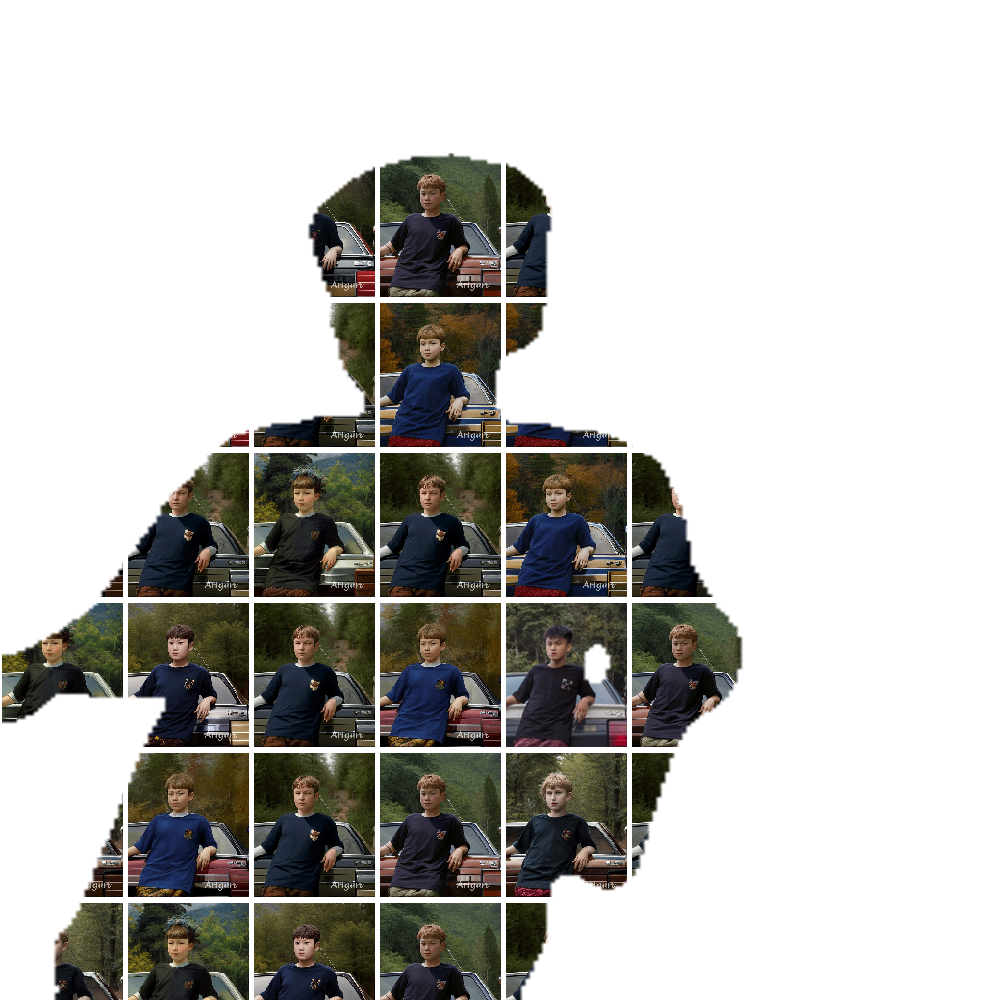
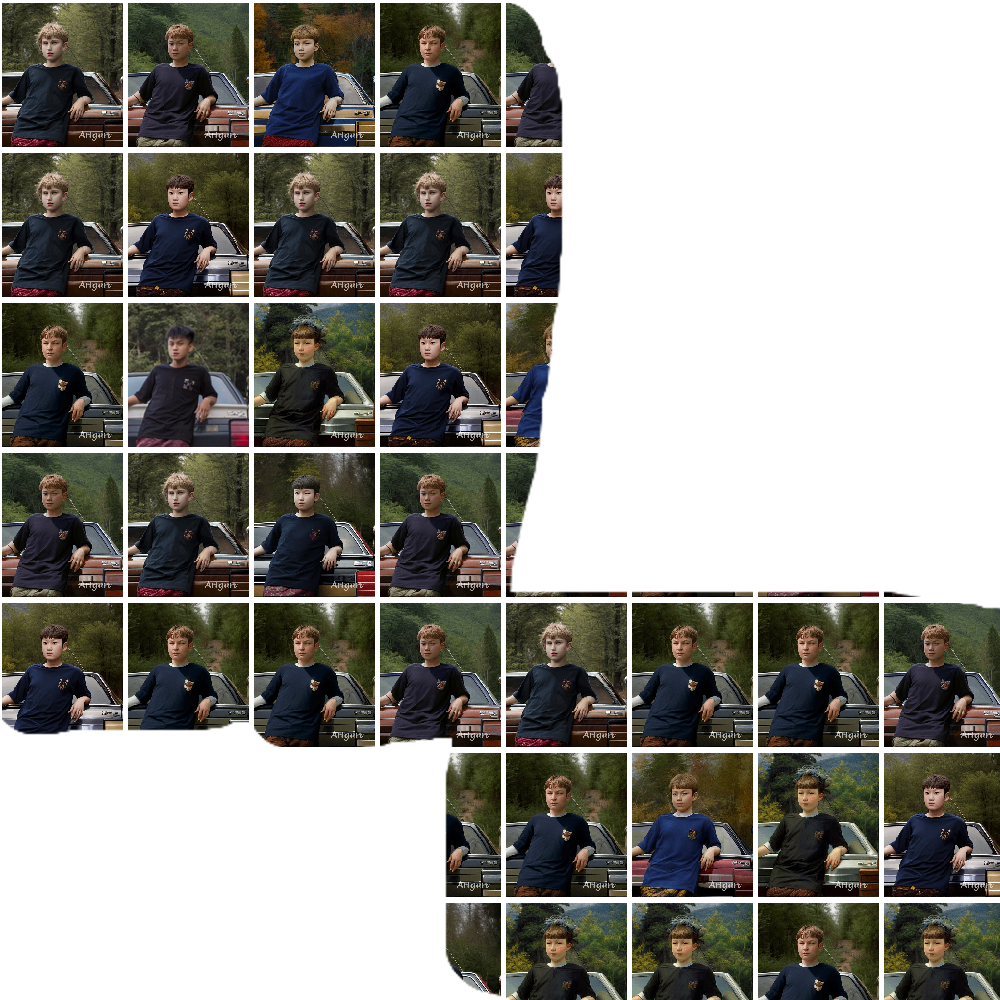
feat: 新增自訂繪圖遮罩功能

diff --git a/shape_collage/templates/index.html b/shape_collage/templates/index.html
@@ -119,6 +119,7 @@
           <option value="star">星形</option>
           <option value="heart">心形</option>
           <option value="silhouette">輪廓</option>
+          <option value="draw">手繪</option>
         </select>
       </div>
 
@@ -130,6 +131,11 @@
       <button type="submit">上傳並生成拼貼圖</button>
     </form>
 
+    <div id="drawArea" style="display:none; margin-top: 20px;">
+      <label>在下方手繪你的形狀：</label>
+      <canvas id="drawCanvas" width="500" height="500" style="border:1px solid #ccc;"></canvas>
+    </div>
+
     <div id="collageArea">
       <div class="preview-grid" id="previewGrid"></div>
       <img id="collageImage" class="collage-img" style="display: none;" />
@@ -137,45 +143,108 @@
   </main>
 
   <script>
-    document.getElementById("uploadForm").addEventListener("submit", function(event) {
-      event.preventDefault();
+  const shapeSelect = document.getElementById("shape");
+  const drawArea = document.getElementById("drawArea");
+  const canvas = document.getElementById("drawCanvas");
+  const ctx = canvas?.getContext("2d");
+  ctx.fillStyle = "white";
+  ctx.fillRect(0, 0, canvas.width, canvas.height);
+  
+  // 🔥 把事件註冊拉出來
+  shapeSelect.addEventListener("change", function () {
+    if (this.value === "draw") {
+      drawArea.style.display = "block";
+    } else {
+      drawArea.style.display = "none";
+    }
+  });
 
-      const formData = new FormData(this);
+  let drawing = false;
+  let lastX = 0;
+  let lastY = 0;
+  let brushSize = 40;
 
-      fetch("/upload", {
-        method: "POST",
-        body: formData
-      })
-      .then(response => response.json())
-      .then(data => {
-        const grid = document.getElementById("previewGrid");
-        const collageImg = document.getElementById("collageImage");
-        grid.innerHTML = "";
+  if (canvas) {
+    canvas.addEventListener("mousedown", (e) => {
+      drawing = true;
+      [lastX, lastY] = [e.offsetX, e.offsetY];
+    });
 
-        // 顯示小圖片
-        data.images.forEach(file => {
-          const img = document.createElement("img");
-          img.src = file.url;
-          img.alt = file.name;
-          img.setAttribute("data-target", file.is_target ? "true" : "false");
+    canvas.addEventListener("mousemove", draw);
+    canvas.addEventListener("mouseup", () => drawing = false);
+    canvas.addEventListener("mouseout", () => drawing = false);
 
-          img.addEventListener("click", () => {
-            if (img.getAttribute("data-target") === "true") {
-              alert("🎯 找到了！");
-            } else {
-              alert("❌ 不是目標，再試一次");
-            }
-          });
+    function draw(e) {
+      if (!drawing) return;
+      ctx.strokeStyle = "black";
+      ctx.lineWidth = brushSize;
+      ctx.lineCap = "round";
+      ctx.beginPath();
+      ctx.moveTo(lastX, lastY);
+      ctx.lineTo(e.offsetX, e.offsetY);
+      ctx.stroke();
+      [lastX, lastY] = [e.offsetX, e.offsetY];
+    }
+  }
 
-          grid.appendChild(img);
+  document.getElementById("uploadForm").addEventListener("submit", function(event) {
+    event.preventDefault();
+    const formData = new FormData(this);
+
+    // 如果選的是 "draw"，把 canvas 畫的圖轉成 blob 丟進 formData
+    if (shapeSelect.value === "draw" && canvas) {
+      const dataUrl = canvas.toDataURL("image/png");
+      const blob = dataURLToBlob(dataUrl);
+      console.log(blob); // 看有沒有東西，type 是不是 image/png
+      formData.append("drawn_shape", blob, "drawn_shape.png");
+    }
+    
+
+    fetch("/upload", {
+      method: "POST",
+      body: formData
+    })
+    .then(response => response.json())
+    .then(data => {
+      const grid = document.getElementById("previewGrid");
+      const collageImg = document.getElementById("collageImage");
+      grid.innerHTML = "";
+
+      data.images.forEach(file => {
+        const img = document.createElement("img");
+        img.src = file.url;
+        img.alt = file.name;
+        img.setAttribute("data-target", file.is_target ? "true" : "false");
+
+        img.addEventListener("click", () => {
+          if (img.getAttribute("data-target") === "true") {
+            alert("🎯 找到了！");
+          } else {
+            alert("❌ 不是目標，再試一次");
+          }
         });
 
-        // 顯示大圖
-        collageImg.src = data.collage_url;
-        collageImg.style.display = "block";
-      })
-      .catch(error => console.error("Error:", error));
-    });
-  </script>
+        grid.appendChild(img);
+      });
+
+      collageImg.src = data.collage_url;
+      collageImg.style.display = "block";
+    })
+    .catch(error => console.error("Error:", error));
+  });
+
+  function dataURLToBlob(dataURL) {
+    const byteString = atob(dataURL.split(',')[1]);
+    const mimeString = dataURL.split(',')[0].split(':')[1].split(';')[0];
+    const ab = new ArrayBuffer(byteString.length);
+    const ia = new Uint8Array(ab);
+    for (let i = 0; i < byteString.length; i++) {
+      ia[i] = byteString.charCodeAt(i);
+    }
+    return new Blob([ab], { type: mimeString });
+  }
+
+</script>
+
 </body>
 </html>

diff --git a/shape_collage/app.py b/shape_collage/app.py
@@ -1,5 +1,5 @@
 from flask import Flask, render_template, request, send_file
-from PIL import Image, ImageDraw
+from PIL import Image, ImageDraw, ImageOps
 import os
 import time
 import cv2
@@ -227,6 +227,9 @@ def upload():
     # 載入圖片
     main_image, loaded_images = load_images()
 
+    # 嘗試取得手繪圖形
+    drawn_shape = request.files.get("drawn_shape")
+
     # 產生拼貼圖
     collage = fill_square_with_images(loaded_images, canvas_size=CANVAS_SIZE)
     if shape == "rectangle":
@@ -239,6 +242,11 @@ def upload():
         mask = create_heart_mask(collage)
     elif shape == "silhouette":
         mask = create_silhouette_mask()
+    elif shape == "draw":
+        if drawn_shape:
+            mask = ImageOps.invert(Image.open(drawn_shape).convert("L")).resize(CANVAS_SIZE)
+        else:
+            return "Missing drawn_shape", 400
     else:
         return "Invalid shape", 400
     collage = apply_mask(collage, mask, main_image)
